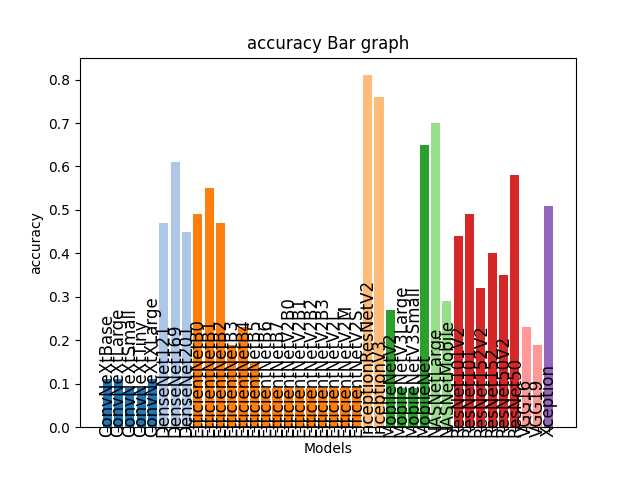
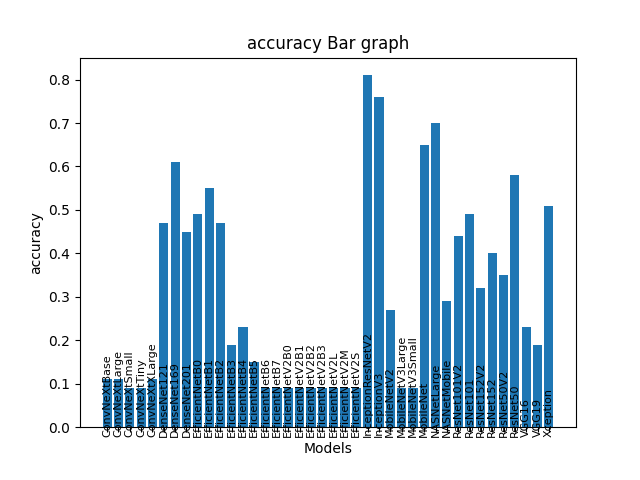
updated fontsize and added space between catagories

Changed region(s): [[0.1562, 0.1562, 0.875, 0.9375]]

diff --git a/final/utils.py b/final/utils.py
@@ -68,20 +68,24 @@ def create_bar(metrics, col, path):
     val = []
     dirs = []
     c = []
-    i = -1 
+    i = 0 
     for model, metrics in sorted(metrics.items()):
         m = metrics[col]
         cat.append(model.split("_")[0])
         val.append(m)
         d = metrics["directory"]
-        if d not in dirs:
+        if d not in dirs and i!=0:
             i+=1
+            cat.append("")
+            val.append(0.0)
+            colors.append(0)
+            dirs.append("NONE")
         dirs.append(d)
         c.append(i)
    
     plt.bar(cat, val,color=plt.cm.tab20(c))
 
-    plt.xticks(rotation=90, va="bottom", fontsize=12)
+    plt.xticks(rotation=90, va="bottom", fontsize=8)
     plt.xlabel('Models')
     plt.ylabel(f"{col}")
     plt.title(f"{col} Bar graph")
